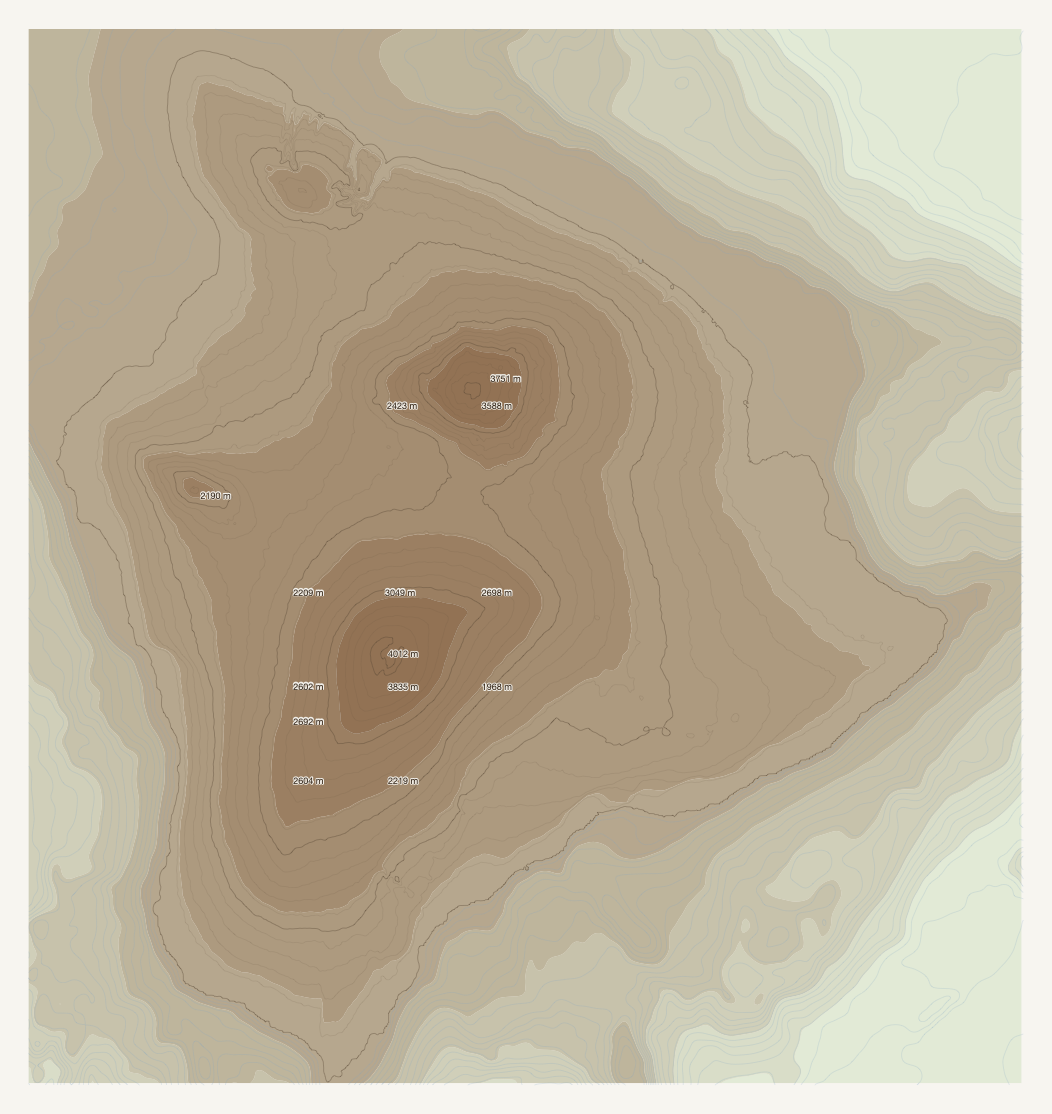
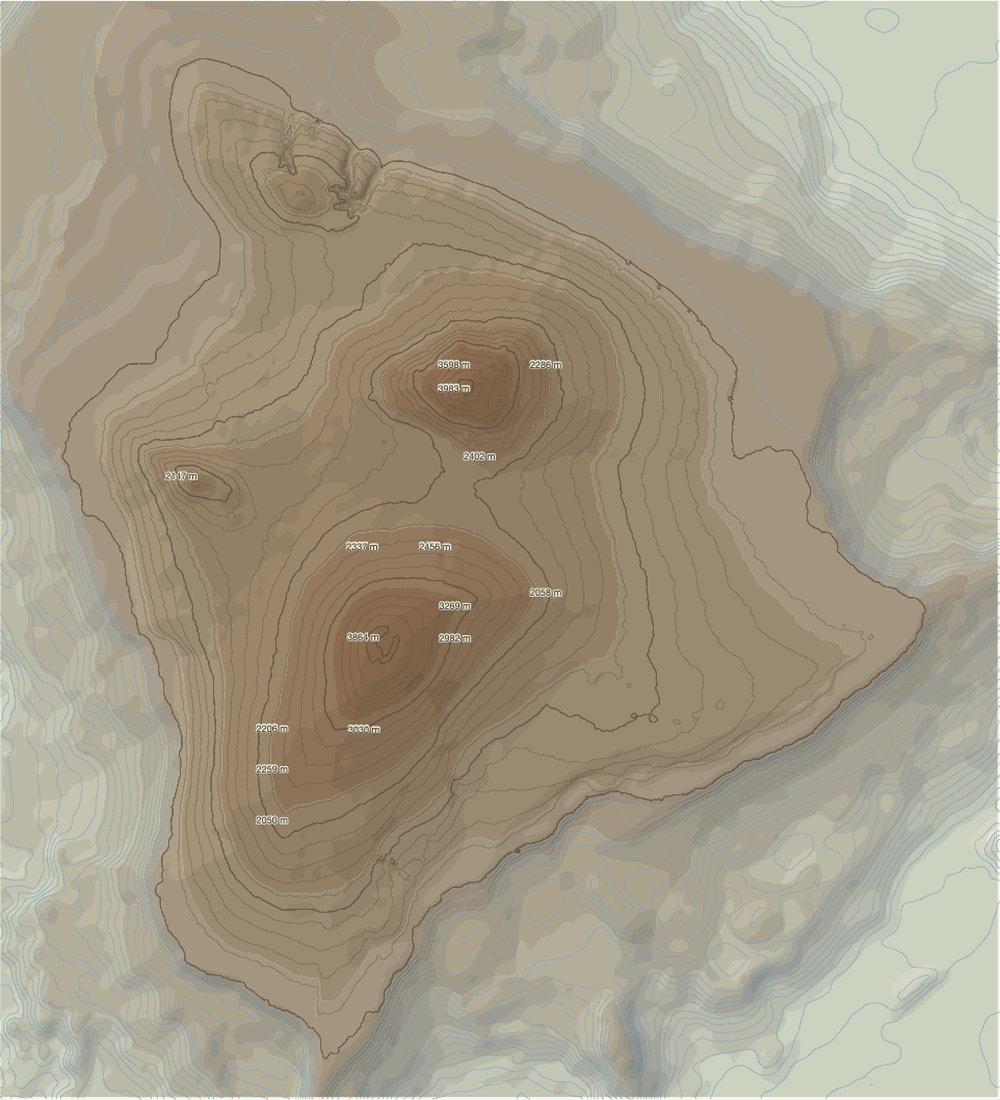
docs: refresh the two opening renders, and correct two stale claims
The images at the top of the README are map renders, not screenshots of the
interface — the README says in bold that it makes no claim about the interface,
because nothing here can capture a window, and that is still true.

Both are re-rendered from current code with relief shading on:

- Hawaii gains modelled shields, the rift zones and the sea floor around them.
- Amsterdam is unchanged in substance, because it is flat: two tones, a mean
  difference of 4/255 against the unshaded render. Its alt text says so.

Cropped to the drawn map by detecting the background rather than by a
hand-measured box, aspect preserved — the first attempt squashed Amsterdam from
1.30:1 into a square — and quantised to a 256-colour palette, which costs a
mean error under 2/255 on a map with few colours and leaves both files smaller
than the ones they replace: 2.3 MB to 1.3 MB, and 536 KB to 400 KB.

Two claims were stale rather than wrong-headed: the test count (606, now 721),
and `street_names` in HANDOFF.md, listed as styled-but-never-populated when
`SceneBuilder.streetLabels` fills it, `StreetLabelTests` covers it in eight
tests, and a fetch of the Castro returns 90 of them.

diff --git a/README.md b/README.md
@@ -6,8 +6,8 @@ layered, Illustrator-editable SVG.
 
 <table>
   <tr>
-    <td width="50%"><img src="Docs/assets/gallery-hawaii-hypsometric.png" width="100%" alt="The island of Hawaii as filled elevation bands, Mauna Kea and Mauna Loa reading as concentric shields, from real elevation data"></td>
-    <td width="50%"><img src="Docs/assets/gallery-amsterdam-fragmented-urban.png" width="100%" alt="Amsterdam's canals, rail fan and building footprints drawn from OpenStreetMap"></td>
+    <td width="50%"><img src="Docs/assets/gallery-hawaii-hypsometric.png" width="100%" alt="The island of Hawaii as filled elevation bands under relief shading, Mauna Kea and Mauna Loa reading as shields with the rift zones and the sea floor around them, from real elevation data"></td>
+    <td width="50%"><img src="Docs/assets/gallery-amsterdam-fragmented-urban.png" width="100%" alt="Amsterdam's canals, rail fan and building footprints drawn from OpenStreetMap, on ground too flat to shade"></td>
   </tr>
 </table>
 
@@ -17,7 +17,8 @@ here that disagrees with it is a bug here.
 
 **Status: the app is built, and the window has never been looked at.** Every
 online source, the composing source stack, the sixteen presets, illuminated
-contours, the three-column interface and the exports are in, with 606 tests and
+contours, relief shading, the three-column interface and the exports are in,
+with 721 tests and
 the output checked against real ground. See `KICKOFF.md` for the brief.
 
 Every claim here is backed by a test or by a render someone can open. **None of

diff --git a/HANDOFF.md b/HANDOFF.md
@@ -117,12 +117,11 @@ rule above can be tested without a window.
 The same defect I found and fixed for roads, twice more. Each is a preset
 advertising a look it does not have:
 
-- **`street_names`** — styled by all sixteen presets, given a label budget of 90 in
-  `SceneBuilder`, ordered in the layer list, and nothing ever puts a label in it.
-  Port `_street_labels` from `application/scene_builder.py`. The interesting rule
-  is already written there: OSM splits a street into one way per block, so keeping
-  only the longest run per name puts the label where the street is most legible
-  instead of stamping it down the road forty times.
+- ~~**`street_names`** — styled by all sixteen presets, given a label budget of 90
+  in `SceneBuilder`, and nothing ever puts a label in it.~~ **Done**, and this
+  entry was simply left stale: `SceneBuilder.streetLabels` populates the layer,
+  `StreetLabelTests` covers it in eight tests, and a fetch of the Castro returns
+  90 of them. Both bullets in this section are now closed.
 - ~~**`terrain_hillshade`** — named in the draw order and the layer panel, produced
   by nothing.~~ **Done.** The terrain provider now computes one from the elevation
   grid it already fetches and bands it into filled polygons, so the row fills.

diff --git a/HANDOFF_NEXT.md b/HANDOFF_NEXT.md
@@ -196,6 +196,12 @@ reopening on a style of nowhere they had chosen.
   Francisco on Night, all seven style-pack presets over Kefalonia, and a city
   with streets on it (Twin Peaks and the Mission, four presets) — all as PNGs,
   and **never in the window**.
+- Shading tones are banded on a **fixed** 0...1 scale, not the observed range,
+  so how many tones a sheet reaches is a fact about its ground. The first
+  version stretched the observed range — which sounds right, and turned "how
+  much relief is there" into "always maximum contrast". Amsterdam came out
+  mottled brown; the peak darkening on flat ground was 60/255, and is now
+  24/255. A sheet that reaches fewer than two tones is not shaded at all.
 - **In a dense city the shading is largely buried under the buildings.** Relief
   is ground and buildings sit on it, so the draw order is right, but with
   21,380 opaque building fills over a grid the shade only shows in parks, open
